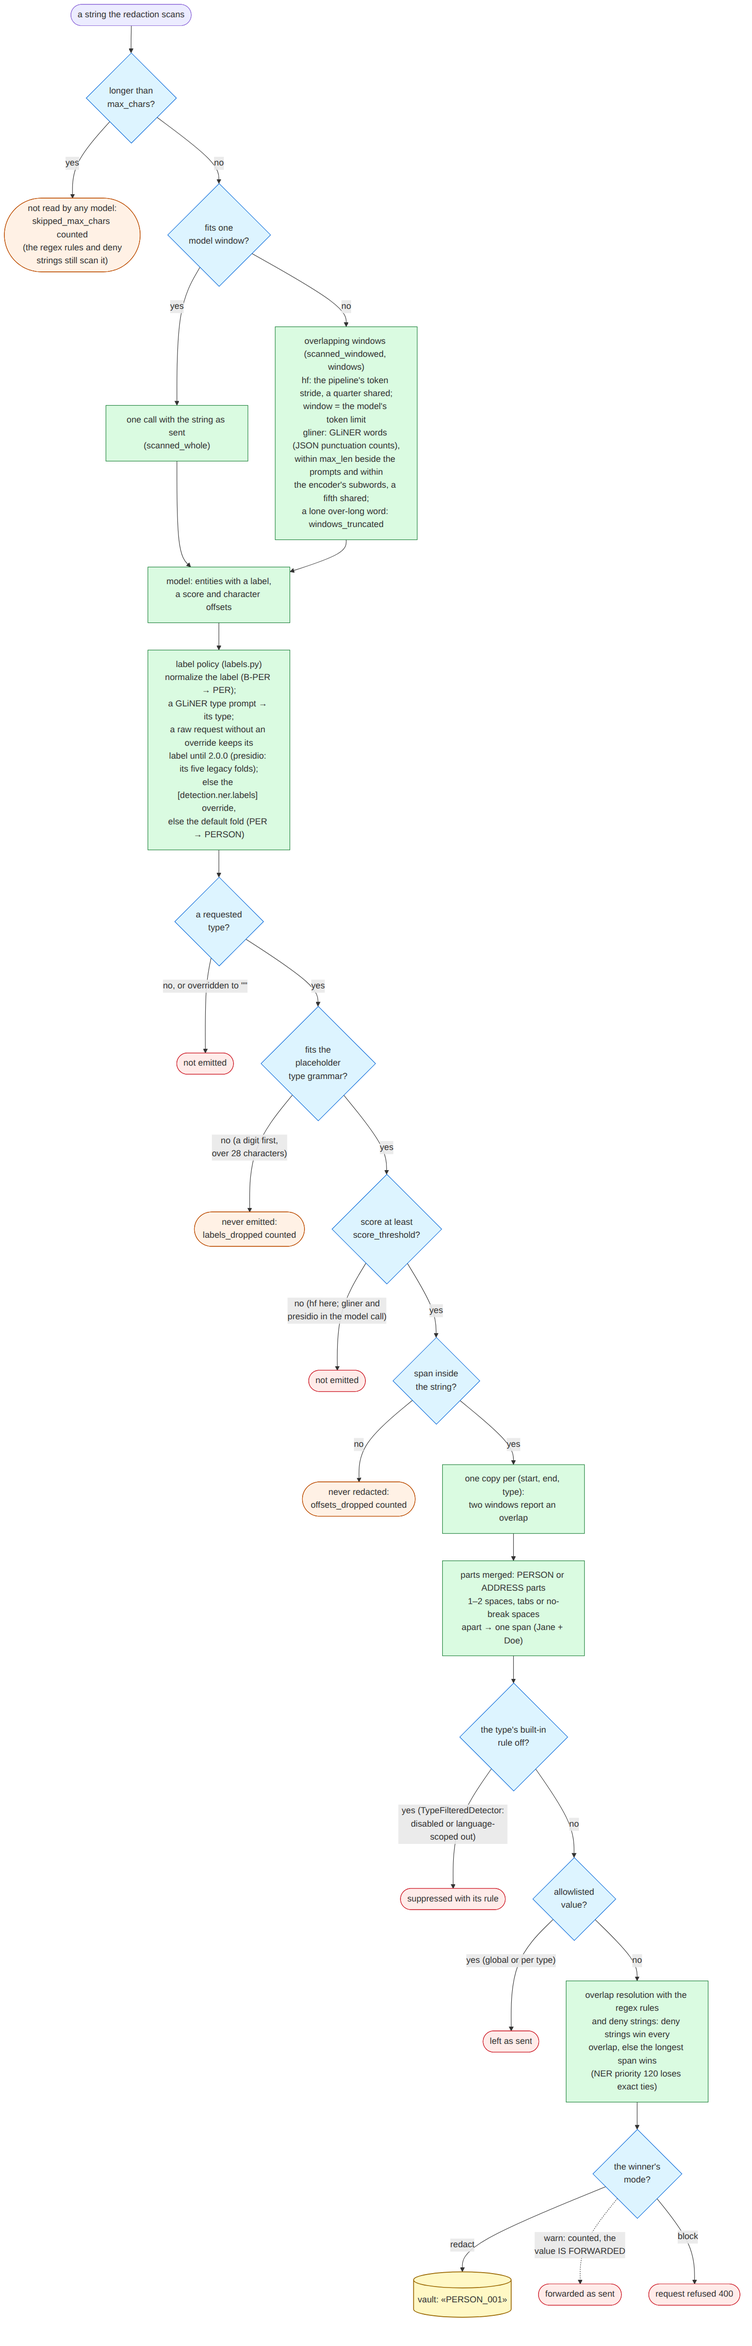
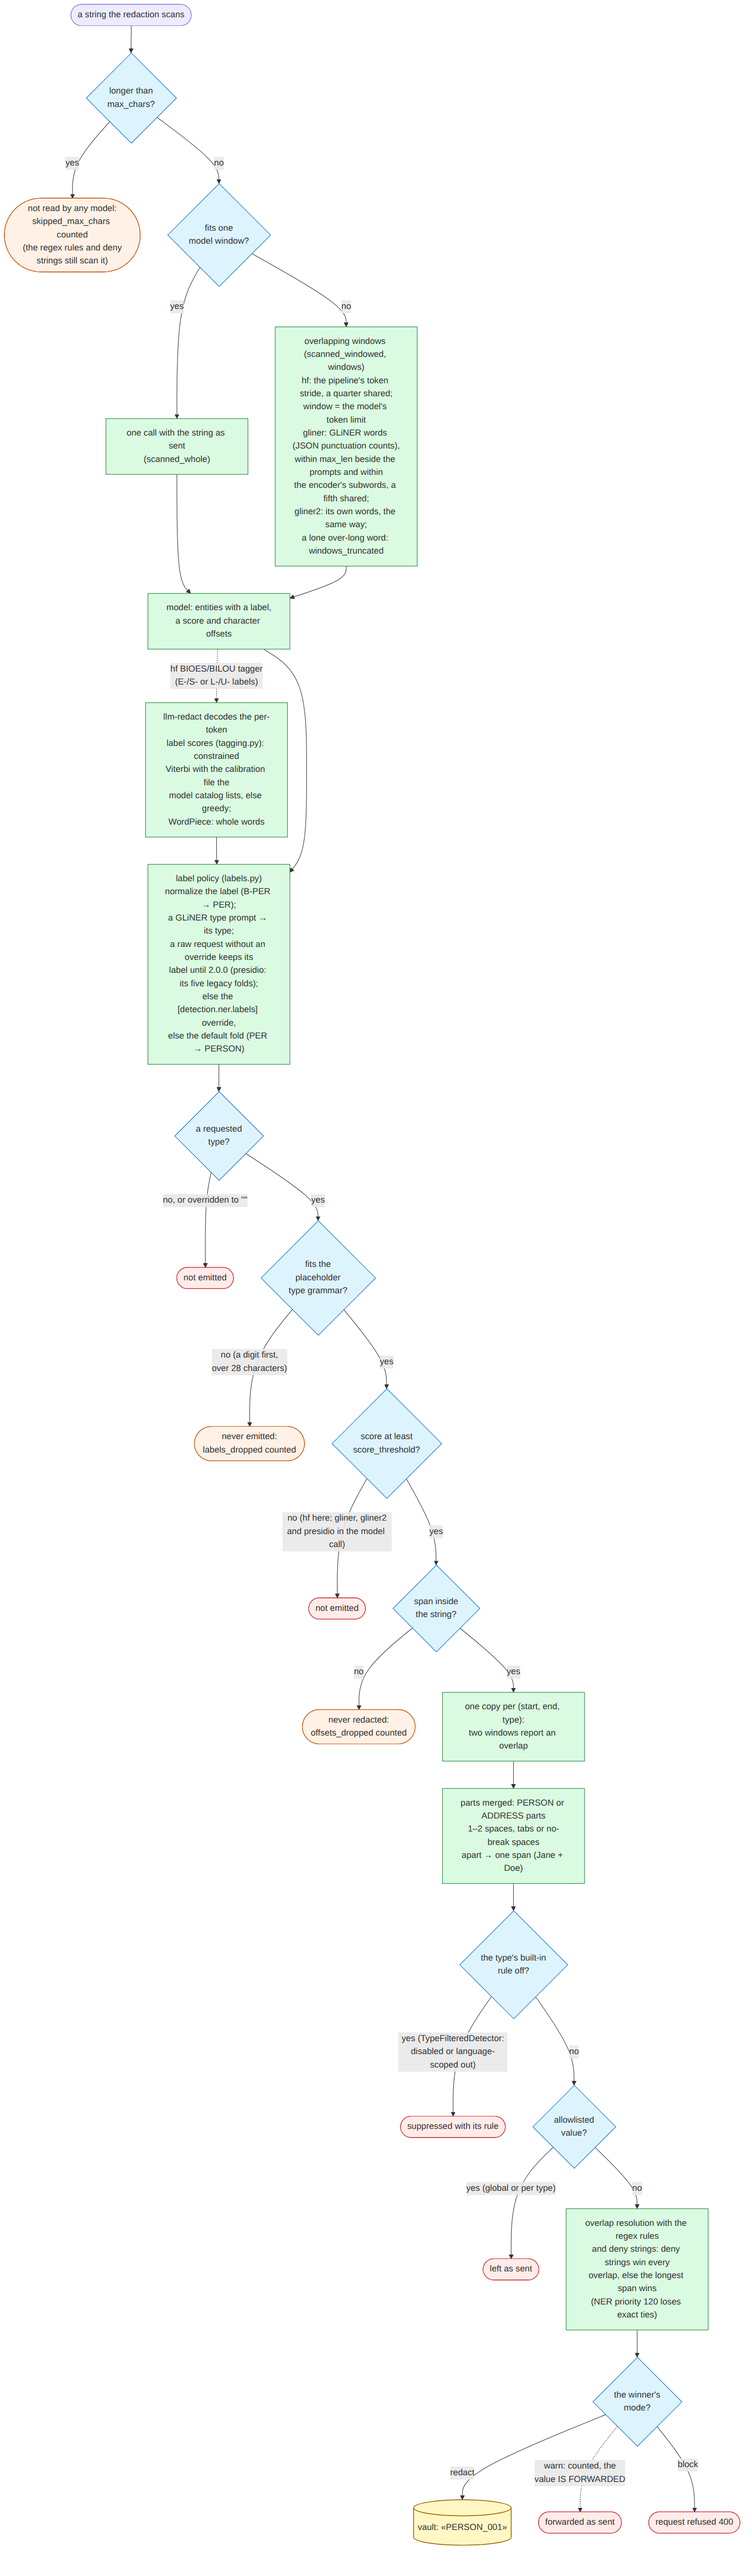
Integrate: the ner-pipeline diagram shows gliner2 and the hf tagger decoding
docs/diagrams/ner-pipeline.mmd: gliner2's word windows beside GLiNER's, its
in-call score threshold, and the hf BIOES/BILOU branch (llm-redact decodes the
per-token label scores: constrained Viterbi with the catalog's calibration
file, else greedy; whole words with WordPiece). Re-rendered with mermaid-cli
11 (the render_diagrams.sh command, this source only; static diagram, no
animation); the alt text in docs/detection.md names the decoding step.

Claude-Session: https://claude.ai/code/session_01CBWJnhgyTWUvTzSoH9xDrT

Changed region(s): [[0.0, 0.0, 0.9688, 0.9943], [0.5625, 0.9321, 0.6875, 0.9943]]

diff --git a/docs/detection.md b/docs/detection.md
@@ -434,7 +434,7 @@ llm-redact models verify --dir DIR  # check a folder written by `models pull --t
 
 ## How NER runs
 
-![Flowchart of one string through one NER backend: the max_chars gate, one call or overlapping windows, the model, the label policy, the placeholder-type guard, threshold and offset checks, duplicate removal, part merging, rule toggles, the allowlist, overlap resolution with the regex rules and deny strings, and the mode that sends the winner to the vault](diagrams/ner-pipeline.png)
+![Flowchart of one string through one NER backend: the max_chars gate, one call or overlapping windows, the model (an hf BIOES/BILOU tagger's spans decoded by llm-redact), the label policy, the placeholder-type guard, threshold and offset checks, duplicate removal, part merging, rule toggles, the allowlist, overlap resolution with the regex rules and deny strings, and the mode that sends the winner to the vault](diagrams/ner-pipeline.png)
 
 *Static diagram. [Mermaid source](diagrams/ner-pipeline.mmd).*
 
